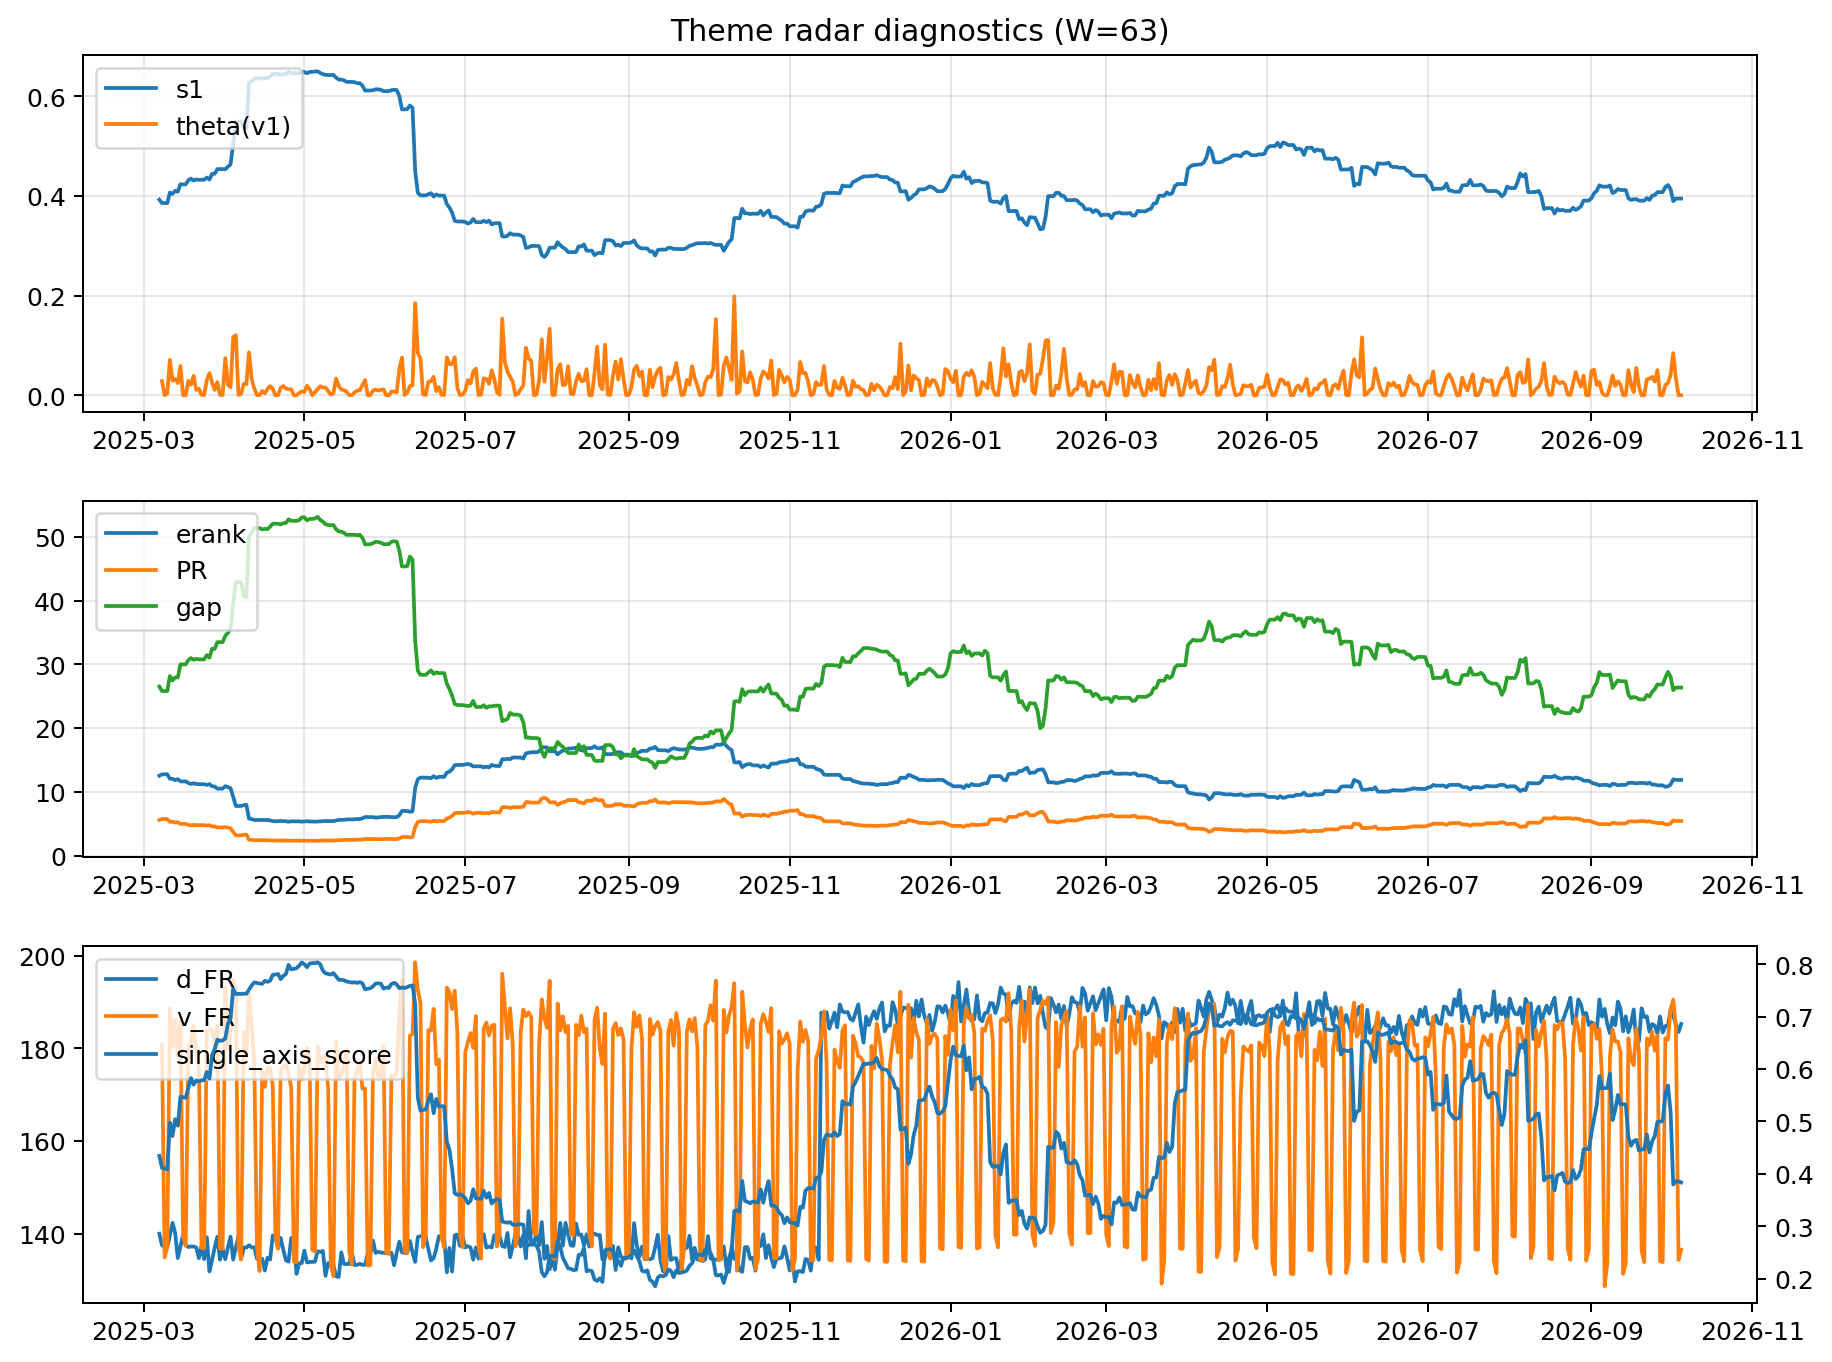
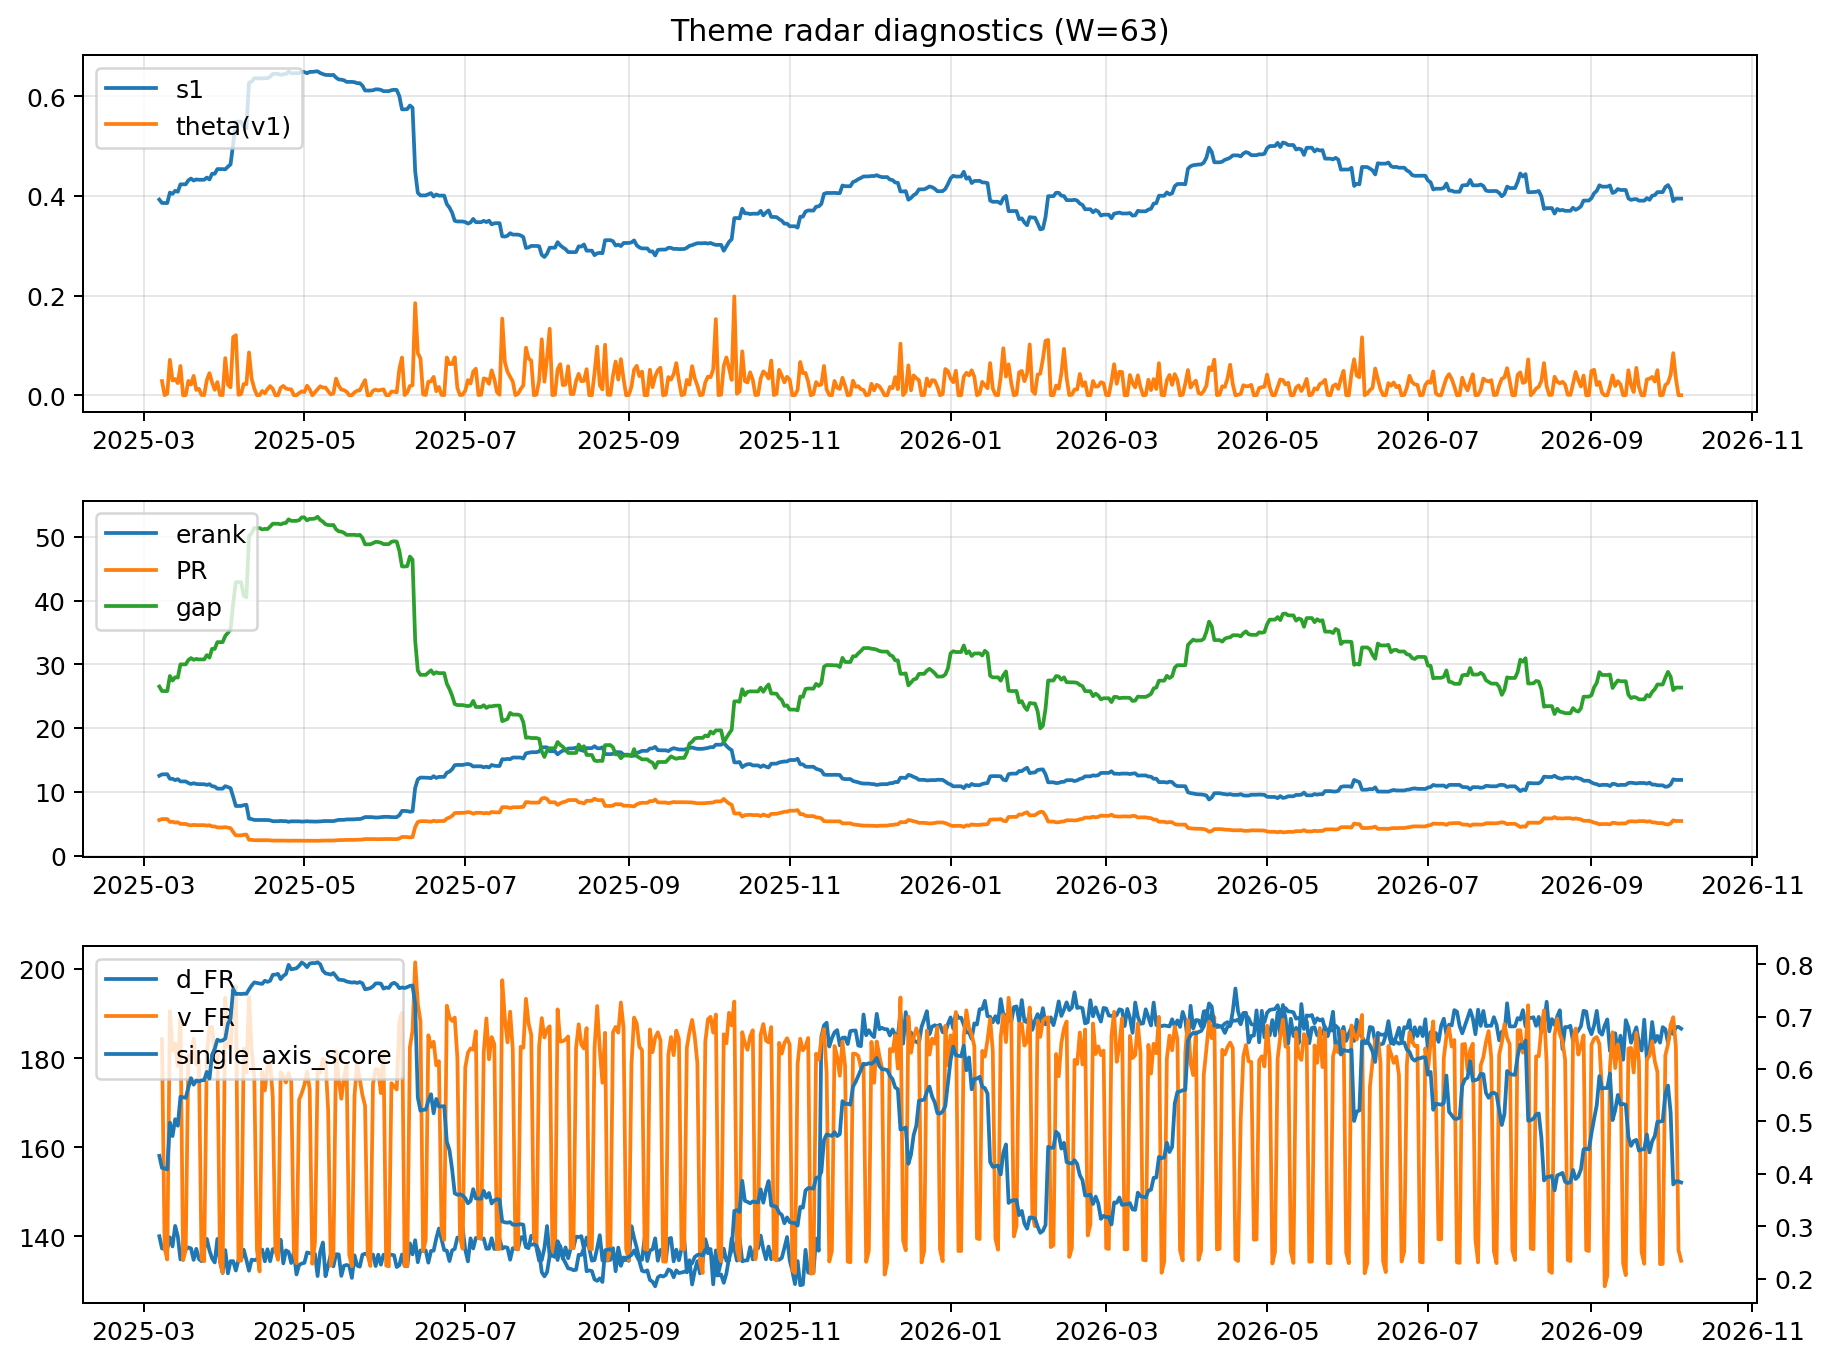
log: 2026-10-05 | sha256:cd2f772e7af1e8697c00ca84b20acf4c243c132cdf382c8099f5cbb842d67253

diff --git a/logs/2026-10-05.md b/logs/2026-10-05.md
@@ -3,43 +3,43 @@
 ![diagnostic W63](../assets/diagnostic/2026-10-05_W63.png)
 
 ## Leaders (v1) — W=63
-- **Nuclear_Uranium** (0.0749121922486323)
-- Semis (0.0609055154627744)
-- Space (0.0571004853883202)
+- **Nuclear_Uranium** (0.074912190412322)
+- Semis (0.0609055186048753)
+- Space (0.0571004828568986)
 
 ## Challengers — W=63
-**v2:** Semis (0.0973385958197448), Genomics_Bio (0.0820867739652691), Grid_Power (0.0765065852084425)
-**v3:** Software_Cloud (0.0960972687135906), Metals (0.0739024940032657), Cyber (0.067540629358001)
+**v2:** Semis (0.0973385799952508), Genomics_Bio (0.082086867191981), Grid_Power (0.0765065824361161)
+**v3:** Software_Cloud (0.0960972884609425), Metals (0.0739024492412604), Cyber (0.0675406329010495)
 
 ## Migration (20D slope) — W=63
 **Top risers:**
-- axis_Rates: 0.0009840262037073
-- axis_DataCenter_Infra: 0.0005699856973776
-- axis_Sector_RealEstate: 0.0004797914476861
-- axis_Software_Cloud: 0.0003838976695735
-- axis_Commodities: 0.0002905876724277
-- axis_Credit: 0.0002309022834995
-- axis_Sector_Utilities: 0.0002288141075282
-- axis_Sector_ConsDisc: 0.0002277739288752
-- axis_Sector_Materials: 0.0002186808949868
-- axis_Sector_Comm: 0.0001760169036761
+- axis_Rates: 0.0009840255756013
+- axis_DataCenter_Infra: 0.0005699852243185
+- axis_Sector_RealEstate: 0.0004797912222645
+- axis_Software_Cloud: 0.0003838978347246
+- axis_Commodities: 0.0002905879643365
+- axis_Credit: 0.0002309019034205
+- axis_Sector_Utilities: 0.000228813976924
+- axis_Sector_ConsDisc: 0.0002277739557611
+- axis_Sector_Materials: 0.0002186807578643
+- axis_Sector_Comm: 0.0001760166462415
 
 **Top fallers:**
-- axis_Metals: -0.0001157283251298
-- axis_Clean_Broad: -0.0001310454353313
-- axis_Critical_Minerals: -0.000162497777891
-- axis_Drones_Autonomy: -0.0002641057225112
-- axis_Space: -0.0003086614154195
-- axis_Sector_ConsStap: -0.0003152436743237
-- axis_Grid_Power: -0.0003347223021058
-- axis_Quantum: -0.0004359045731903
-- axis_Semis: -0.000527082483783
-- axis_Nuclear_Uranium: -0.0005792799841419
+- axis_Metals: -0.0001157285899053
+- axis_Clean_Broad: -0.0001310453888969
+- axis_Critical_Minerals: -0.0001624978107627
+- axis_Drones_Autonomy: -0.0002641053194471
+- axis_Space: -0.000308661071202
+- axis_Sector_ConsStap: -0.0003152436465218
+- axis_Grid_Power: -0.0003347220607656
+- axis_Quantum: -0.0004359040015583
+- axis_Semis: -0.0005270823990561
+- axis_Nuclear_Uranium: -0.0005792797679279
 
 ## Risk line (W=63)
-- s1: 0.394551602430066
-- theta_v1: 0.0001925916905582
-- v_FR: 136.5417238766131
+- s1: 0.3945516643577892
+- theta_v1: 0.0001925917147697
+- v_FR: 134.53775649638925
 - single_axis_score: 0.3833910034602076
 
 ## Interpretation
@@ -48,7 +48,7 @@
 - Action: Tomorrow watchlist: Rates, DataCenter_Infra, Sector_RealEstate, Software_Cloud, Commodities + v2_top1=Semis
 - Action: Hedge note: normal correlation stability.
 
-- Percentiles (W=63 history): vfr_pct=0.17, theta_pct=0.10, s1_pct=0.40, score_pct=0.31.
+- Percentiles (W=63 history): vfr_pct=0.11, theta_pct=0.10, s1_pct=0.40, score_pct=0.31.
 
 ---
[2 lines of base64/hex data omitted]
